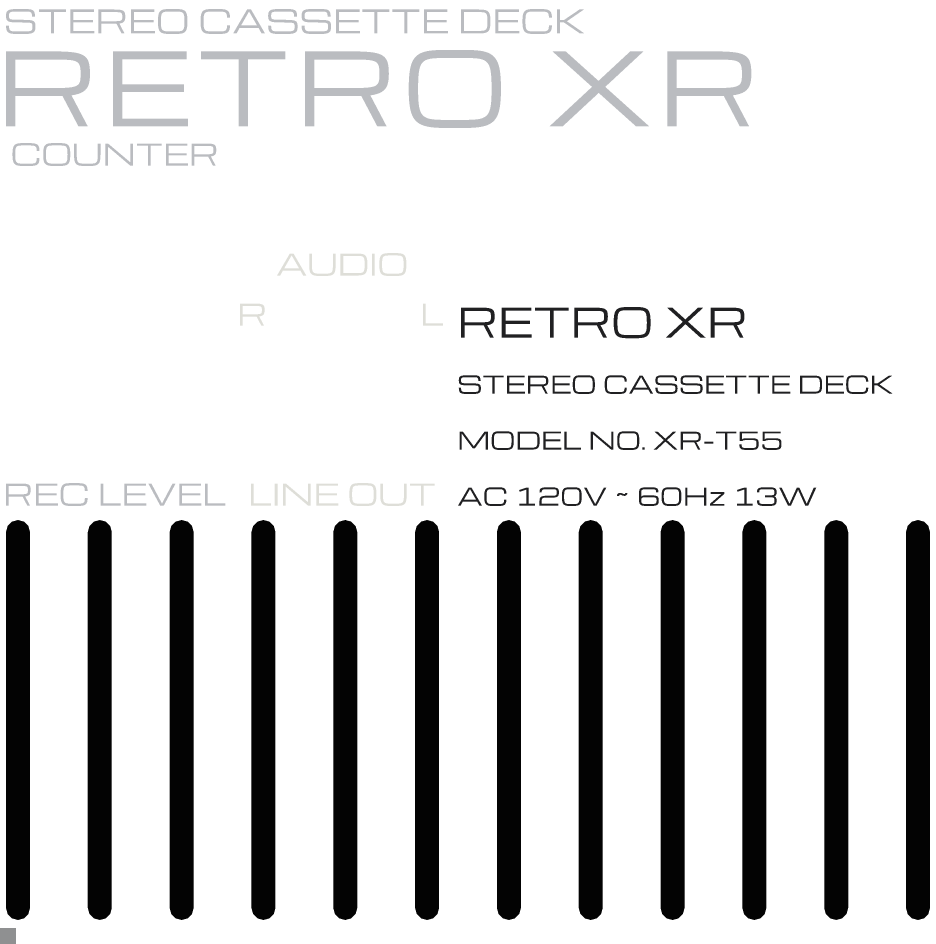
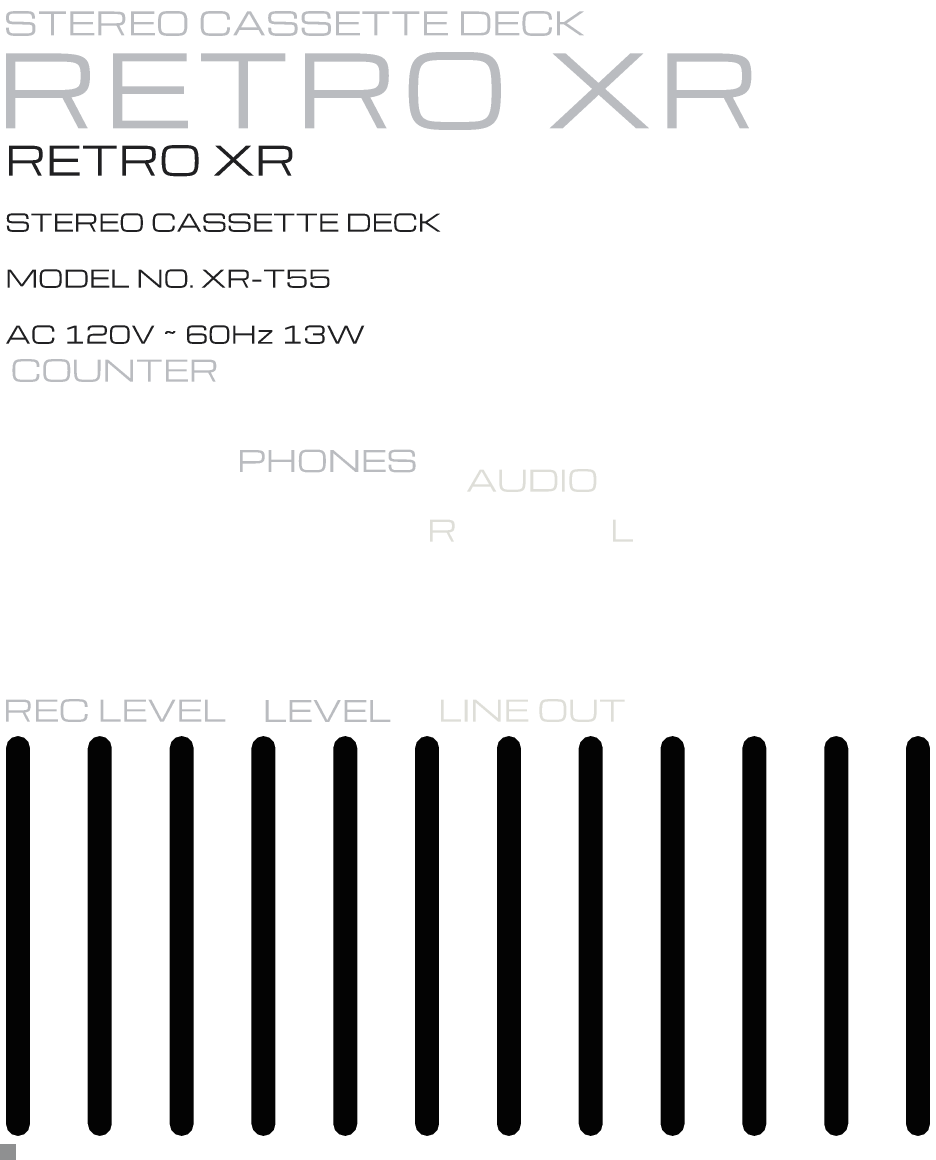
feat(audio): a live PHONES jack and LEVEL knob on the cassette deck
The RETRO XR cassette deck's model (RetroXR-models 9b398d210) now has the CD player's 3.5 mm PHONES jack
and its LEVEL knob, under EJECT between the door and the transport keys. The scene gains PhonesOut (a
TrsPort, OUT) and PhonesKnob (a VRKnob over the model's PhonesLevel); audio_player.gd's PHONES routing
was already generic, so headphones in the jack take the tape's sound over the line out, at their
near-ear law, scaled by PhonesKnob. LevelKnob stays the deck's output level (persisted by path, so it
keeps its name); through PHONES the two multiply.

The CD player's dressing moved into DeckFace.dress_phones, shared by both decks
(PHONES_SEAT_BACK with it; CDPlayer keeps an alias).

headphones_tests 77/77: cd/ is now one _deck_phones helper, run for cassette/ too, plus the two knobs
apart, output x PHONES level and the cap on the pivot (removing the cassette's dress_phones call turns
it red). deck, appliance_pointer, audio_cassette, texture_import, speaker and av suites pass (1700
checks). bring_in_probe shoots the headphones in the deck's PHONES (windowed).

diff --git a/CLAUDE.md b/CLAUDE.md
@@ -265,7 +265,7 @@ can kill the process (extension is `-fno-exceptions`, no sandbox).
 | 2y-gen | `genesis-cartridges.md` | Sega Genesis cartridge: RetroXR-models/sega/genesis/cart's optimized LOD0 of a caliper-measured US Acclaim cart (the publisher plaque blank), brought in by that repo's `export_retroxr.py` (renames nodes/materials, runs `fix_unmapped_uvs.py --tile 5.56`), never copied straight over. `CART_SIZES["genesis"]` is the measured 108 × 67 × 17 mm, so it loads at scale 1; the Genesis seat and the 32X's derived `connector` both follow that row. ScreenScraper's Genesis labels are FRONT scans, so the art is UV-painted on `Label` (the 60 mm front, `_UV_LABELS`) and `Label_Fold` over the top stays white. Contacts and screws authored metal. No tint, Godot's own LODs. |
 | 2y-nes | `nes-cartridges.md` | NES cartridge: RetroXR-models/nintendo/nes/cart's debranded optimized LOD0 of a measured gray three-screw US Game Pak (replaced the CC BY Sketchfab SMB3 cart and its About credit), brought in by that repo's `export_retroxr.py` (renames nodes/materials, swaps in the debranded textures, runs `fix_unmapped_uvs.py --tile 11.12`). `CART_SIZES["nes"]` is the measured 120 × 134 × 17 mm. The mouth is a 20 mm pocket, unlit black from 3 mm in (lit black read grey at grazing angles). Art UV-painted on `Label` (the 90 mm front), `Label_Fold` stays white. Shells: `NesCartShell` gives any "zelda" name outside Japan the `gold` preset, a `METALLIZED` finish (fully metallic, each molding's own roughness scaled, maps kept); grey is the model's plastic, which the GBA Classic NES grey matches. The spawn menu's hold sub-menu forces either or a mixed color. |
 | 2z | `desktop.md`, `gamepad-desktop.md` | Desktop window, hand and self-update. `DesktopWindow` restores the saved mode/size ONCE per process (from `xr_init`, not the spawn menu), fits the default to the screen, and saves what a drag settles on. `AppUpdate` checks `RetroXR/RetroXR`'s latest release, never installs without the player's yes, verifies GitHub's sha256, and swaps files in a waiter after quitting. **CI artifact names are the update's contract** (`UpdatePlan.pick_asset`). `OS.execute` mangles `sh -c` arguments on 4.7 -- use `create_process`. A mods restart inside an AppImage relaunches `APPIMAGE`, not the mount. **The hand**: pulled all the way in, one more wheel notch CATCHES an object (a handheld faces you), the hand trails the gaze with a dead zone, a held object drops on mouse RELEASE and not if the press began on one of its controls, and `VRSlider.accepts_pointer_ray` keeps the crosshair honest (the box is 2 cm fat). **Off a headset the loading screen is a flat CanvasLayer** (3D nodes kept, hidden). Resize through `Window`, never `DisplayServer.window_set_size` (X11 desync); the window OPENS small and is sized after. Windows/macOS swaps, a real newer release and a real gamepad are OWED; **The first gamepad is the player's** (`DesktopPad` autoload, `gamepad-desktop.md`): it is made into the keyboard's input (InputMap actions + the mouse events the hand and look read, `SYNTH_DEVICE`-tagged), prompts follow the last device, R3 sends F3 and a captured handheld/pad merges it, and a `PadReceiver` for it makes it external (the spawn menu warns first). Tested synthetically only; a real pad is OWED. |
-| 2-appl | `av-suite.md` (RETRO XR decks), `surround.md` §2r′, `record-player.md` | **The VCR, DVD player, surround amp, record player, cassette deck and CD player wear the RETRO XR models** (built in RetroXR-models `generic/{vcr,dvd-player,surround-receiver,turntable,cassette-deck,cd-player}` on `common/applkit`; copy the three `*_mobile*.glb` + `*_contract.json` into `imported-assets/appliances/<item>/`, never edit a GLB). The scenes keep every node name (saves and netplay store paths) and only dress them: `ApplianceModel` (`Scripts/Objects/appliance_model.gd`) shows the three levels by distance, `adopt_button` copies a model key into the scene's VRButton (it survives a combo TV hiding the housing; LOD1/LOD2 carry the keys in `Body`, so the copy is drawn only as far as LOD0), `attach_part` hangs a moving part of EVERY level under the node the script turns (platter, knob, arm), `play`/`seek` run the GLB's own animations. **The ray meets only what the model draws: no box padded past it** (`fit_shapes`, a carved pocket for a key deeper than 5 mm; `appliance_pointer_tests`). Decks' buttons are on the FRONT now: `build_into` seats a front-panel deck flush in the cabinet. Each display is a `VfdDisplay` (`Scripts/UI/widgets/vfd_display.gd`): a quad through its own SubViewport, redrawn ONLY on `refresh()` (never `UPDATE_ALWAYS`), `glow` behind the model's smoked glass. After a GLB re-import, re-check its extracted textures: the import resets them to Lossless (`texture_import_tests`); ORM and print atlases are High Quality. The VCR tape is the real cassette (`VhsCassette`). **The spawn menu's TV is the RETRO XR set** (`tv:retroxr_crt`, `RetroXRCrtShell`; rooms keep the Classic box): the model's own seats place tube and sockets, `TvFit` seats `RfPort` and calls `on_buttons_built`, the key door gates five keys and is not saved, `tv_model_probe`. **The TV remote wears `generic/tv-remote`: 26 VRButton keys, each its grid cell, on what the grid shows or `IrTip` points at; the stick lights and presses the keys themselves, the floating grid is `AppPrefs.remote_button_menu`, automatic until chosen (on at a desk, off in a headset; only a choice is saved, as `remote_button_menu_choice`), on the remote's own menu** (`tv_remote_tests`). The cassette door and CD tray are a `DeckDrawer` (the model carries the medium on its seat). **The base game draws the Compact Cassette (`CompactCassette`) and steps aside for a mod that dresses `AudioCassette/shell` (`ModManager.dresser_of`, or a `Shell` already on it): never dressed twice** (`audio_cassette_tests`). The CD player's PHONES jack and LEVEL knob are live: a lead in PHONES takes the deck's sound over its line out (`headphones_tests cd/`). Headset feel OWED. |
+| 2-appl | `av-suite.md` (RETRO XR decks), `surround.md` §2r′, `record-player.md` | **The VCR, DVD player, surround amp, record player, cassette deck and CD player wear the RETRO XR models** (built in RetroXR-models `generic/{vcr,dvd-player,surround-receiver,turntable,cassette-deck,cd-player}` on `common/applkit`; copy the three `*_mobile*.glb` + `*_contract.json` into `imported-assets/appliances/<item>/`, never edit a GLB). The scenes keep every node name (saves and netplay store paths) and only dress them: `ApplianceModel` (`Scripts/Objects/appliance_model.gd`) shows the three levels by distance, `adopt_button` copies a model key into the scene's VRButton (it survives a combo TV hiding the housing; LOD1/LOD2 carry the keys in `Body`, so the copy is drawn only as far as LOD0), `attach_part` hangs a moving part of EVERY level under the node the script turns (platter, knob, arm), `play`/`seek` run the GLB's own animations. **The ray meets only what the model draws: no box padded past it** (`fit_shapes`, a carved pocket for a key deeper than 5 mm; `appliance_pointer_tests`). Decks' buttons are on the FRONT now: `build_into` seats a front-panel deck flush in the cabinet. Each display is a `VfdDisplay` (`Scripts/UI/widgets/vfd_display.gd`): a quad through its own SubViewport, redrawn ONLY on `refresh()` (never `UPDATE_ALWAYS`), `glow` behind the model's smoked glass. After a GLB re-import, re-check its extracted textures: the import resets them to Lossless (`texture_import_tests`); ORM and print atlases are High Quality. The VCR tape is the real cassette (`VhsCassette`). **The spawn menu's TV is the RETRO XR set** (`tv:retroxr_crt`, `RetroXRCrtShell`; rooms keep the Classic box): the model's own seats place tube and sockets, `TvFit` seats `RfPort` and calls `on_buttons_built`, the key door gates five keys and is not saved, `tv_model_probe`. **The TV remote wears `generic/tv-remote`: 26 VRButton keys, each its grid cell, on what the grid shows or `IrTip` points at; the stick lights and presses the keys themselves, the floating grid is `AppPrefs.remote_button_menu`, automatic until chosen (on at a desk, off in a headset; only a choice is saved, as `remote_button_menu_choice`), on the remote's own menu** (`tv_remote_tests`). The cassette door and CD tray are a `DeckDrawer` (the model carries the medium on its seat). **The base game draws the Compact Cassette (`CompactCassette`) and steps aside for a mod that dresses `AudioCassette/shell` (`ModManager.dresser_of`, or a `Shell` already on it): never dressed twice** (`audio_cassette_tests`). The CD player's and the cassette deck's PHONES jacks and their LEVEL knobs are live (`DeckFace.dress_phones`; the cassette's is `PhonesKnob`, its `LevelKnob` being the output level): a lead in PHONES takes the deck's sound over its line out (`headphones_tests cd/ cassette/`). Headset feel OWED. |
 | 2-power | `power.md` | **Devices run only when a live supply reaches them -- OPT-IN**: Options > General > "Enable Power Simulation" (`AppPrefs.power_simulation`) ships OFF, which is the old behaviour; ON turns the rule on and cuts whatever runs unplugged, and **a room with no wall outlet powers everything anyway** (`MainsPower.room_has_mains`). `MainsPower` is a static resolver (no autoload): power flows wall -> appliance only, a strip in its own socket is dead, anything takes part by answering `mains_live_at(at, seen)`; every seat/pull on a `PowerPort`/`DcPort`, a cell in or out and the option go through `MainsPower.changed()` (one `call_group` a frame). A device's intake is its `PowerInput` child (inlet, own cord, every bay full, built-in pack, a set it is built into). **The gate is the machine's own path**: `power_on()` asks right after its early return and BEFORE the attract branch, `toggle_power()` asks too (a lockstep host never reaches `power_on`), `net_start_core` never; a lost supply goes through `power_off`/`netplay_stop("unplugged")`; a LATCHING slide left ON comes back with the supply, a push button never. Inlets: a model's own `PowerPort`/`DcPort`, else `SystemPower` builds `PowerInlet` (never renamed) from `PowerProfiles` (C8/C8P for an internal supply, a barrel jack named by the PLUG STANDARD for an adapter). sets have a cord of their own like the decks (reversed 2026-11-01 from a C8 inlet; a model with no `PowerCordExit` gets an exit on its REAL back, `ApplianceMains.back_surface`) and arcade cabinets take a C13 lead in a C14 (`ApplianceMains.hook_up_inlet`, `PowerProfiles` "c14"); a detailed console model's own inlet empty (`SystemPower.MODEL_INLETS`, names differ by model) is where its socket goes; decks and the amp wear a `CaptiveMainsCord` from their model's `PowerCordExit` (an AUTHORED one starts hidden; Show Power Cord on the System tab hides it = plugged in out of sight); the TV's switch latches (`is_on()` = switch AND power); GBA SP / DS / 3DS / PSP are always powered (built-in pack); the Virtual Boy runs on what is clipped on its CONTROLLER's back (`VbPowerUnit`: the VUE-007 pack, six AA behind a lid, or the VUE-011 tap taking the SNES adapter, the Famicom's in Japan), through `PowerInput.through`, and the controller's slide is its latching switch. **An expansion with a supply of its own (the 32X's MK-2103, `ExpansionPower`, PowerProfiles keyed by expansion id) must have it too, or its console will not start; pulling it switches the console off.** Handheld primitives get a `BatteryBay` (walls, contacts, seats, cover) from their profile's `bay`; a mod shell with its own seats keeps them. AC adapters are `PowerBrick` primitives from `PowerBrickCatalog` (sizes and anchors from RetroXR-models `asset_stats.json`; a brick keeps the region it was bought in). The Power tab is one row per cord kind and per adapter (`PowerSpawnRows`): press = the Options outlet region's model, hold = pick, the region's outlet glyph at the row's right. Mains seats are announced (`MainsSync`, EV_RCA_*; built-in cords EV_MAINS_CORD_*, appended). `power_tests`, `Tools/room/power_probe` (windowed). Headset, Quest, a real two-peer session and the pretty models OWED. |
 | 2-stand | `console-stands.md` | **A console is MOUNTED in a stand, and the stand decides how it stands** (`StandCatalog` rows: `fits` systemids/model ids, `face` of the console's MEASURED box, `seat`, `parts`, optional `scene`; `ConsoleStand` + its `StandMount` zone; `StandFoot`). SpeakerStand's arrangement: the STAND records the console (`console_stand` entry, `stand_id` + `console`), `system.gd` knows nothing of stands. A console grows a `StandFoot` (an `XRToolsGrabPointSnap` at that face's middle, +Y into the console, answering only `console_stand_mount_<face>`) lazily, from the mount's filter or a restore. **Measure the face, never assume it**: the Wii is authored upright and laid flat by its root, so it stands on its RIGHT face (`bottom` left it lying in the cradle). Shipped: `wii_stand` (RVL-017 + RVL-019) and `ps2_vertical_stand` (SCPH-10040, left side), PRIMITIVE stand-ins with estimated sizes; no Virtual Boy row (its primitive authors its bipod). Spawn `console_stand:<id>` on each fitting card; a mod adds one (`ModApi.register_console_stand`) or gives a shipped one its model in place (`override_console_stand`, merged, id kept). Seating is not announced in netplay (as `SpeakerStand`). `console_stand_tests`, `Tools/room/console_stand_probe` (windowed). Models, headset, netplay seat event OWED. |
 | 2-pks | `pocketstation.md` | **The PocketStation is a PlayStation MEMORY CARD that is also a handheld** (`PocketStation` extends `MemoryCard`, family `playstation`; the VMU's arrangement, not a RetroSystem): spawned from the PS1's card, seated in its card slot as that console's card (mates along -Z; the object wears the primitive turned half round), and out of it the card panel runs `pokket` on a SCRATCH copy of its card, which goes back through `CardSaveOps.write_card` once the core has unloaded (Pokket's save RAM is the flash, a .mcr byte for byte): WHOLE while the card is still as the run found it (`<card_id>.base.mcr`), MERGED save by save when anything else wrote it meanwhile, and on the card BEFORE a console it is seated in reads it. Its `_save_kind_rows` row MUST stay above MemoryCard's. Needs `system/pokket/pocketstation.bin`; only the retail J110 dump takes Pokket's date/time writes. **Seated it is a PLAIN card to the game**: answering the PS1 as a PocketStation (the minigame downloads) is the pcsx_rearmed plan in the doc, Pokket's MIT core linked into the fork with every card byte handed to it. `pocketstation_tests`, `Tools/models/pocketstation_seat_probe` and `pocketstation_render_probe` (windowed); `Tools/cores/pocketstation_dock_probe` (Crash Bandicoot 3 (J) writes its app onto the card) and `pocketstation_play_probe` (the app boots on real Pokket; with `Tools/gen_pocketstation_save_app.py`'s app, `--expect-changed` proves a save made on the unit reaches the card). **Docked, RetroXR's pcsx_rearmed runs the device** (Pokket's core in the fork, `pcsx_rearmed_memcard{N}_device`, pinned by `ForcedCoreOptions.pocketstation_slots`): Spyro 1 and 2 (J) download their minigames, the device is in savestates, and its LCD comes over the **device display interface** (env 97, location 1 = a card slot; Flycast's VMUs use it too, location 0). A commercial app's save, a session, IR and a headset OWED. |

diff --git a/docs/dev/av-suite.md b/docs/dev/av-suite.md
@@ -449,10 +449,20 @@ turning the model's `PhonesLevel`, which keeps its own node on every level; save
 `audio_player.gd` a lead in PHONES takes the deck's sound INSTEAD of its line out and its own speakers
 (`phones_sink()`, `_via_phones`), at the LEVEL knob's level on both channels (`set_phones_level`). Every deck now reads
 its sink's `get_audio_unit_size()` each frame, so through headphones, or a set whose jack has headphones in it, the
-disc, tape or record plays at the headphones' near-ear law. The cassette deck's model has no PHONES jack.
+disc, tape or record plays at the headphones' near-ear law.
 `headphones_tests cd/` (PHONES over a line out to a set, the distance law, LEVEL, pulled back to the line out, a set's
 jack); `appliance_pointer_tests` checks the knob's box is the knob. How it looks: `Tools/av/bring_in_probe`
 (windowed, `-- --no-mods`).
+
+**The cassette deck has PHONES too (2026-11-07)**: RetroXR-models `generic/cassette-deck` gained the CD player's
+3.5 mm jack and its LEVEL knob (`Phones`, the `PhonesOut` mouth, `PhonesLevel` in MOVING), in the column between the
+door and the transport keys, under EJECT (x -51 mm; the jack at z -8, the knob at -33). The dressing is one function
+for both decks now, `DeckFace.dress_phones(deck, model, knob_path, tag)` (the jack seated `PHONES_SEAT_BACK` behind
+the mouth, the cap hung on the knob's pivot, its box fitted at rest). **The cassette deck's PHONES knob is
+`PhonesKnob`**: its `LevelKnob` was already the model's REC LEVEL made the deck's OUTPUT level, and is persisted by
+path, so it kept its name; through PHONES the two multiply. `headphones_tests cassette/` (the `cd/` checks, run by one
+`_deck_phones` helper, plus the two knobs apart, the output level scaling PHONES, and the cap on the pivot);
+`bring_in_probe` shoots `headphones_in_deck_phones.png` / `deck_phones_close.png`.
 
 
 ### Pass-throughs: a device in the middle of the signal (2026-11-02)
